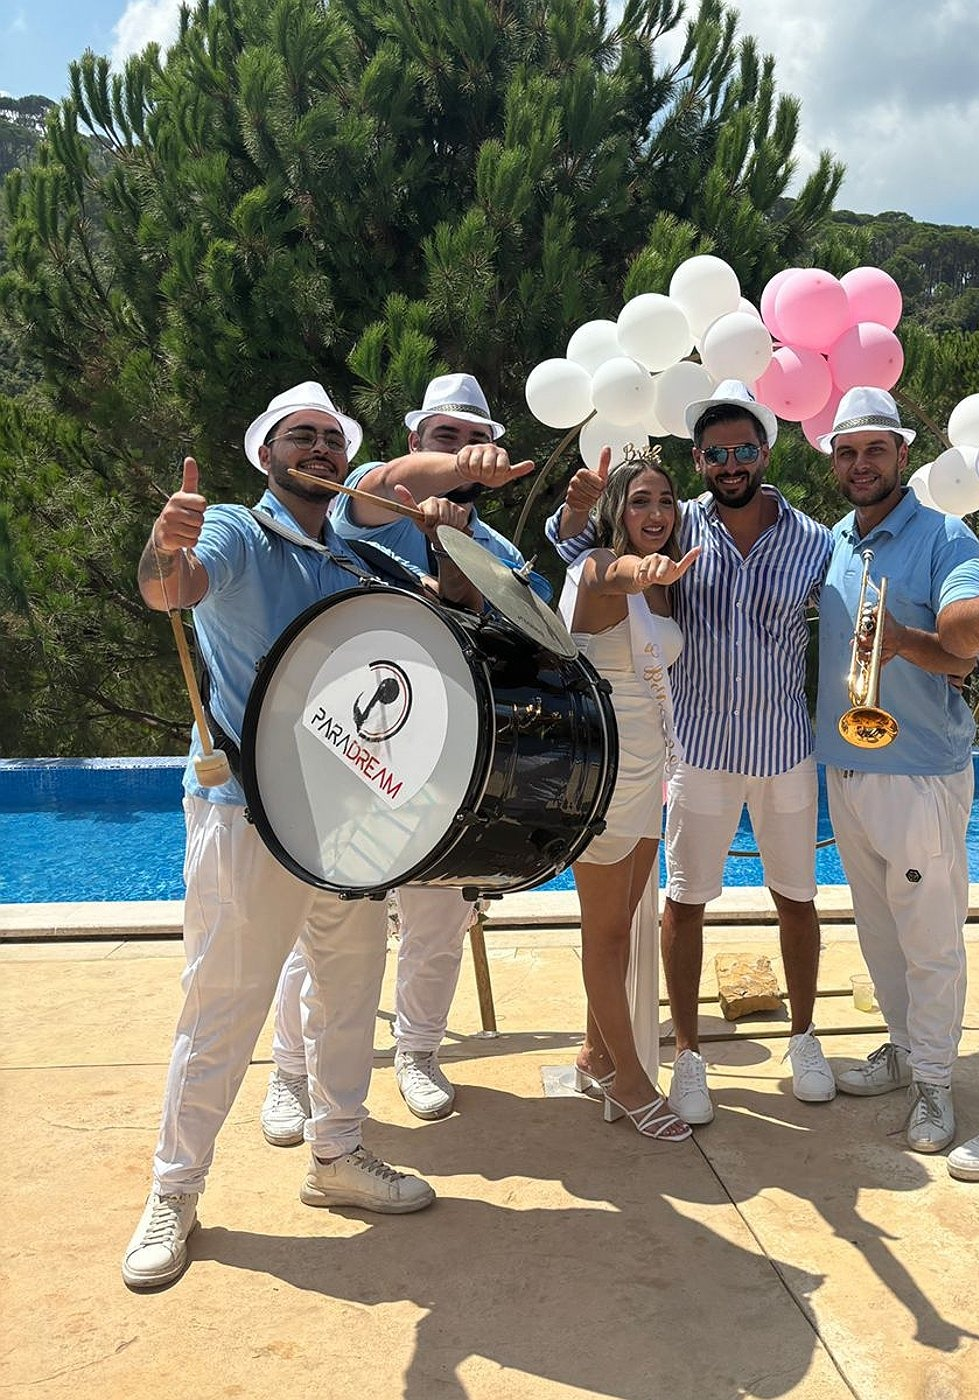
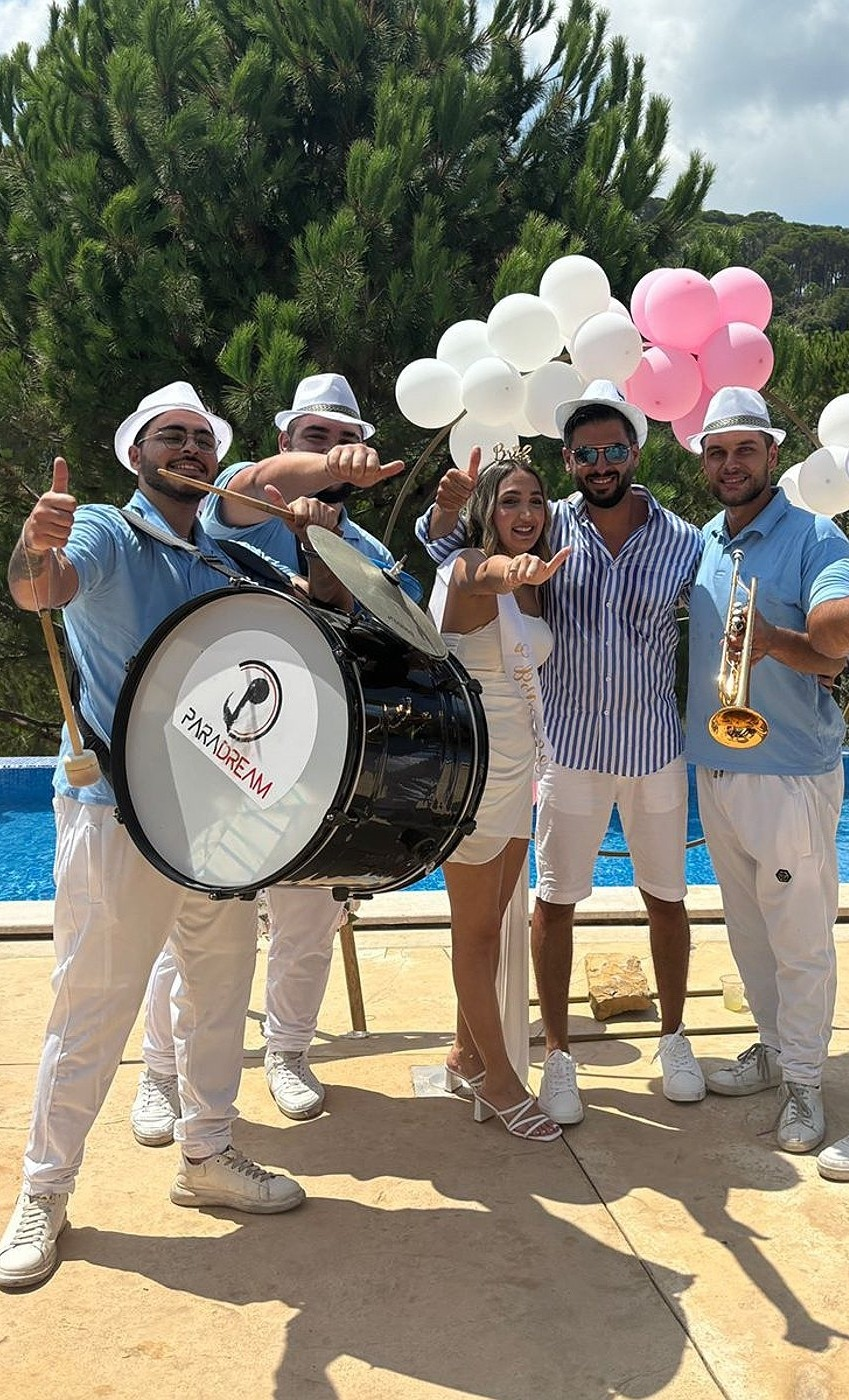
Recenter the Bachelor group photo horizontally
The right-side crop left the group off-center in the wide page-head
banner — almost no margin on the right (the trumpet player was right
at the edge) but a wide strip of empty tree on the left, since cover
scaling shows the image's full width with no horizontal cropping at
this aspect ratio. Trimmed 130px off the left so the group's own
horizontal center lines up with the frame's center instead.

diff --git a/occasions.html b/occasions.html
@@ -65,7 +65,7 @@
         </div>
       </article>
       <article class="occasion reveal" id="bachelor">
-        <img class="occasion-img" style="object-position:center 32%" src="/.netlify/images?url=/images/occasion-bachelor.jpg&amp;w=1200&amp;fit=cover&amp;q=90&amp;v=f625b084" alt="Bachelor" loading="lazy">
+        <img class="occasion-img" style="object-position:center 32%" src="/.netlify/images?url=/images/occasion-bachelor.jpg&amp;w=1200&amp;fit=cover&amp;q=90&amp;v=13d43422" alt="Bachelor" loading="lazy">
         <div>
           <h3>Bachelor</h3>
           <p>Experience an exceptional bachelor party with our elite planning services. We create sophisticated, tailored celebrations, handling every detail from curated activities to premium entertainment. Trust us to turn your dream into an unforgettable event that leaves a lasting impression.</p>

diff --git a/bachelor.html b/bachelor.html
@@ -40,7 +40,7 @@
 </header>
 <main id="main">
 
-<section class="page-head has-photo" style="background-image:url('/.netlify/images?url=/images/occasion-bachelor.jpg&amp;w=1800&amp;fit=cover&amp;q=90&amp;v=f625b084');background-position:center 32%">
+<section class="page-head has-photo" style="background-image:url('/.netlify/images?url=/images/occasion-bachelor.jpg&amp;w=1800&amp;fit=cover&amp;q=90&amp;v=13d43422');background-position:center 32%">
   <h1>Bachelor</h1>
 </section>
 
